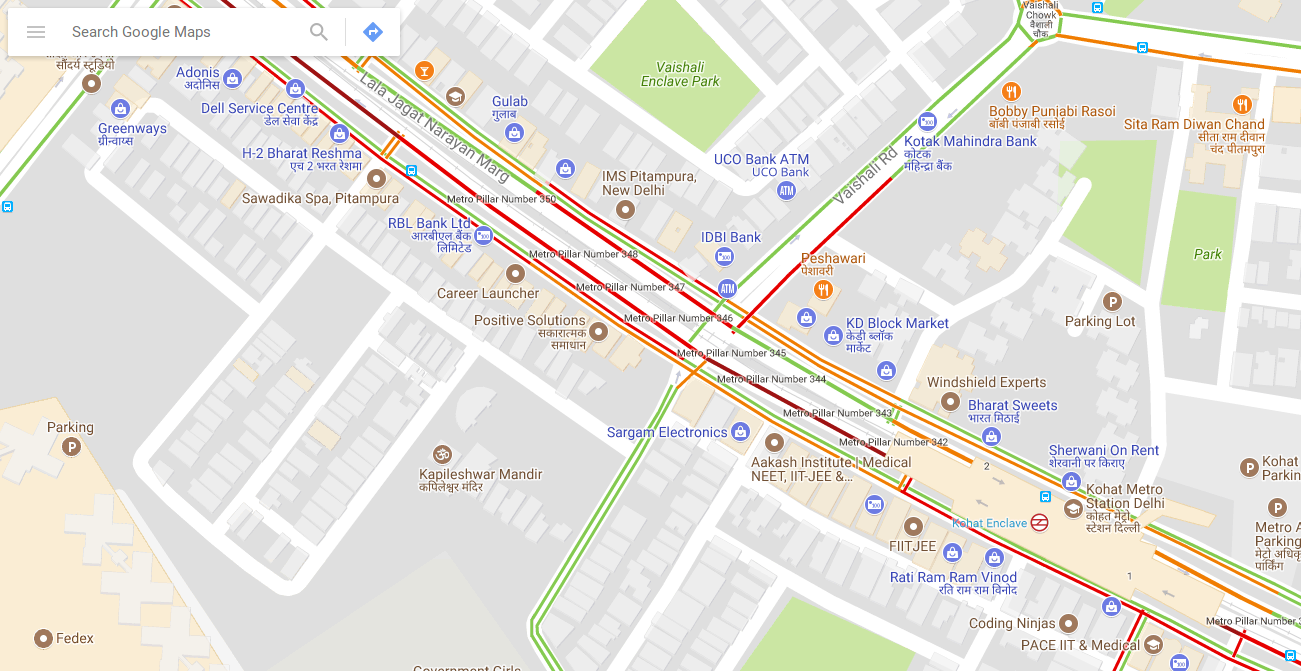
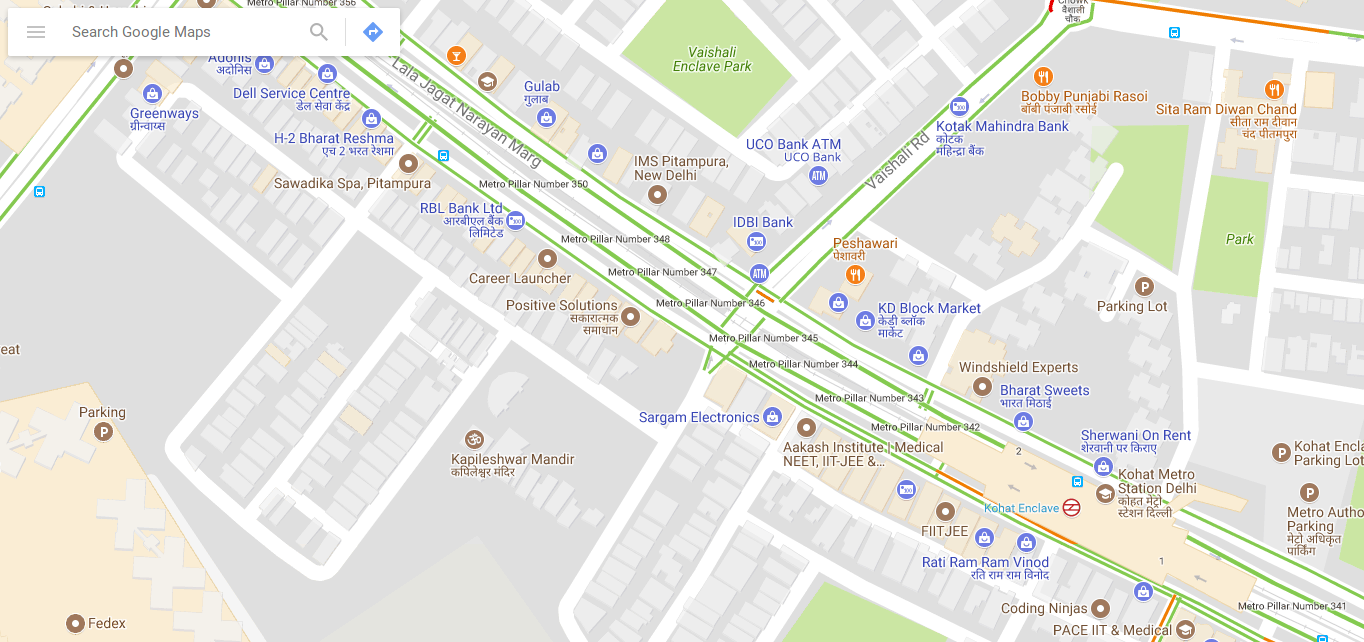
3 crossing are working

diff --git a/main.py b/main.py
@@ -21,7 +21,7 @@ import Image
 
 #creating crossings
 c1 = crossing('c1', 'https://www.google.co.in/maps/@28.7037435,77.1313585,19z/data=!5m1!1e1')
-c2 = crossing('c2', 'https://www.google.co.in/maps/@28.700744,77.1359014,18.5z/data=!5m1!1e1')
+c2 = crossing('c2', 'https://www.google.co.in/maps/@28.7006228,77.1358411,21z/data=!5m1!1e1')
 c3 = crossing('c3', 'https://www.google.co.in/maps/@28.6988657,77.1383807,18.5z/data=!5m1!1e1')
 c4 = crossing('c4', 'https://www.google.co.in/maps/@28.6953937,77.1465191,19.5z/data=!5m1!1e1')
 c5 = crossing('c5', 'https://www.google.co.in/maps/@28.6942465,77.1500341,18.5z/data=!5m1!1e1')
@@ -29,7 +29,11 @@ c5 = crossing('c5', 'https://www.google.co.in/maps/@28.6942465,77.1500341,18.5z/
 
 
 board = Draw(c1,c2,c3,c4,c5)
-
+c1.createRoad(145,143, 205, 208,205, 143, 145, 208, board.C)
+c2.createRoad(295, 143,355, 208, 295, 208,0,0,board.C)
+c3.createRoad(445, 143,505, 208,505, 143,445, 208,board.C)
+c4.createRoad(595, 143,655, 208, 595, 208, 0,0, board.C)
+c5.createRoad(745, 143,0,0,805, 143,805, 208,board.C)
 
 #1st crossing
 c1.rLeft.createLight(150,160,155,165,150,170,155,175,board.C)
@@ -93,6 +97,9 @@ def controlLight(crossing, xL, yL, xT, yT, xR, yR, xB, yB):
         print('itr')
         board.turnOn(crossing.rLeft.tLight.st)
         board.turnOn(crossing.rLeft.tLight.rt)
+        #starting the timer
+        thread.start_new_thread(crossing.rLeft.startTimer,(board.C, crossing.rLeft.tLight.getStTime()))
+
 
         #controlling the horizontal lights
         #checking for max congestion
@@ -106,9 +113,13 @@ def controlLight(crossing, xL, yL, xT, yT, xR, yR, xB, yB):
             #turning on rRight st
             board.turnOn(crossing.rRight.tLight.st)
 
+            #starting right timer
+            thread.start_new_thread(crossing.rRight.startTimer,(board.C, crossing.rRight.tLight.getStTime()))
+
             #finding time to turn off rLeft st
             timest = crossing.rLeft.tLight.getStTime() - timeRt
             time.sleep(timest)
+
             #turning off rLeft st
             board.turnOff(crossing.rLeft.tLight.st)
             #turning on rRight rt
@@ -118,6 +129,7 @@ def controlLight(crossing, xL, yL, xT, yT, xR, yR, xB, yB):
             time.sleep(timest)
             board.turnOff(crossing.rRight.tLight.st)
             board.turnOff(crossing.rRight.tLight.rt)
+
         else:
             # finding time for rLeft rt
             timeRt = crossing.rLeft.tLight.getRtTime()
@@ -126,7 +138,8 @@ def controlLight(crossing, xL, yL, xT, yT, xR, yR, xB, yB):
             board.turnOff(crossing.rLeft.tLight.rt)
             # turning on rRight st
             board.turnOn(crossing.rRight.tLight.st)
-
+            #starting timer
+            thread.start_new_thread(crossing.rRight.startTimer,(board.C, crossing.rRight.tLight.getStTime()))
             # finding time to turn off rLeft st
             timest = crossing.rLeft.tLight.getStTime() - timeRt
             time.sleep(timest)
@@ -145,20 +158,22 @@ def controlLight(crossing, xL, yL, xT, yT, xR, yR, xB, yB):
 
             board.turnOn(crossing.rTop.tLight.st)
             board.turnOn(crossing.rTop.tLight.rt)
+            #setting timer
+            thread.start_new_thread(crossing.rTop.startTimer,(board.C, crossing.rTop.tLight.getStTime()))
             # checking for max congestion
             if(crossing.rTop.tLight.getStTime() == 0):
                 board.turnOn(crossing.rBottom.tLight.rt)
             if crossing.rTop.tLight.getStTime() > crossing.rBottom.tLight.getStTime():
                 print ('if')
                 # finding time for rLeft rt
-                timeRt = crossing.rTop.tLight.getStTime() - (
-                crossing.rBottom.tLight.getStTime() - crossing.rBottom.tLight.getRtTime())
+                timeRt = crossing.rTop.tLight.getStTime() - (crossing.rBottom.tLight.getStTime() - crossing.rBottom.tLight.getRtTime())
                 time.sleep(timeRt)
                 # turning off rt
                 board.turnOff(crossing.rTop.tLight.rt)
                 # turning on rRight st
                 board.turnOn(crossing.rBottom.tLight.st)
-
+                #starting timer
+                thread.start_new_thread(crossing.rBottom.startTimer,(board.C,crossing.rBottom.tLight.getStTime()))
                 #getting update
                 crossing.mapc.getUpdate()
                 crossing.img = crossing.mapc.fetch()
@@ -182,6 +197,8 @@ def controlLight(crossing, xL, yL, xT, yT, xR, yR, xB, yB):
                 board.turnOff(crossing.rTop.tLight.rt)
                 # turning on rRight st
                 board.turnOn(crossing.rBottom.tLight.st)
+                #starting timer
+                thread.start_new_thread(crossing.rBottom.startTimer, (board.C, crossing.rBottom.tLight.getStTime()))
 
                 # getting update
                 crossing.mapc.getUpdate()
@@ -203,13 +220,11 @@ def controlLight(crossing, xL, yL, xT, yT, xR, yR, xB, yB):
 
 #controlling the lights
 #use your own coordinates comment mine
-thread.start_new_thread(controlLight, (c1, 78, 495, 138, 749, 361, 748, 256, 483))
-thread.start_new_thread(controlLight, (c2, 299, 662, 0, 0, 365, 693, 372, 621))
-thread.start_new_thread(controlLight, (c3, 282, 720, 288, 793, 353, 758, 380, 705))
-thread.start_new_thread(controlLight, (c4, 282, 707, 0, 0, 390, 797, 439, 702))
+thread.start_new_thread(controlLight, (c1, 78, 496, 128, 687, 361, 748, 256, 483))
+thread.start_new_thread(controlLight, (c2, 13, 670, 0, 0, 362, 772, 412, 406))
+thread.start_new_thread(controlLight, (c3, 282, 720, 285, 796, 353, 758, 380, 705))
+thread.start_new_thread(controlLight, (c4, 282, 707, 0, 0, 390, 797, 411, 710))
 thread.start_new_thread(controlLight, (c5, 259, 568, 260, 706, 376, 811, 0, 0))
-# thread.start_new_thread(controlLight, (c1, ))
-# thread.start_new_thread(controlLight, (c1, ))
 board.top.mainloop()
 
 

diff --git a/CrossingGUI.py b/CrossingGUI.py
@@ -78,27 +78,27 @@ class Draw:
         # txt = self.C.create_text(270, 140, text="Pitampura metro")
         # txt = self.C.create_text(550, 140, text="Pitampura")cd
 
-        txt = self.C.create_text(145, 143, text="0")
-        txt = self.C.create_text(205, 143, text="1")
-        txt = self.C.create_text(205, 208, text="2")
-        txt = self.C.create_text(145, 208, text="3")
-
-        txt = self.C.create_text(295, 143, text="0")
-        txt = self.C.create_text(355, 208, text="1")
-        txt = self.C.create_text(295, 208, text="2")
-
-        txt = self.C.create_text(445, 143, text="0")
-        txt = self.C.create_text(505, 143, text="1")
-        txt = self.C.create_text(505, 208, text="2")
-        txt = self.C.create_text(445, 208, text="3")
-
-        txt = self.C.create_text(595, 143, text="0")
-        txt = self.C.create_text(655, 208, text="1")
-        txt = self.C.create_text(595, 208, text="2")
-
-        txt = self.C.create_text(745, 143, text="0")
-        txt = self.C.create_text(805, 143, text="1")
-        txt = self.C.create_text(805, 208, text="2")
+        # txt = self.C.create_text(145, 143, text="0")
+        # txt = self.C.create_text(205, 143, text="1")
+        # txt = self.C.create_text(205, 208, text="2")
+        # txt = self.C.create_text(145, 208, text="3")
+        #
+        # txt = self.C.create_text(295, 143, text="0")
+        # txt = self.C.create_text(355, 208, text="1")
+        # txt = self.C.create_text(295, 208, text="2")
+        #
+        # txt = self.C.create_text(445, 143, text="0")
+        # txt = self.C.create_text(505, 143, text="1")
+        # txt = self.C.create_text(505, 208, text="2")
+        # txt = self.C.create_text(445, 208, text="3")
+        #
+        # txt = self.C.create_text(595, 143, text="0")
+        # txt = self.C.create_text(655, 208, text="1")
+        # txt = self.C.create_text(595, 208, text="2")
+        #
+        # txt = self.C.create_text(745, 143, text="0")
+        # txt = self.C.create_text(805, 143, text="1")
+        # txt = self.C.create_text(805, 208, text="2")
 
         # txt = self.C.create_text(18, 175, text="Rohini")
 

diff --git a/Road.py b/Road.py
@@ -1,7 +1,7 @@
 #class road
 import numpy as np
 from TrafficLight import *
-
+import time
 def color(a):
     if np.array_equal(a, [80, 202, 132]):
         return "green"
@@ -12,14 +12,29 @@ def color(a):
     elif np.array_equal(a, [19, 19, 158]):
         return "maroon"
     else:
-        print('white')
         return "white"
 
 class Road:
+    def __init__(self,a,b,C):
+        self.createLable(a,b,C)
     def createLight(self,a,b,c,d,e,f,g,h,C):
         self.tLight = TrafficLight(a,b,c,d,e,f,g,h,C)
     def getColor(self):
         return self.color
     def setColor(self, color):
         self.color = color
+    def createLable(self,a,b,C):
+        self.a = a
+        self.inner = "0"
+        if self.a==0:
+            self.inner = ""
+        self.txt = C.create_text(a, b, text=self.inner)
+
+    def startTimer(self,C,time1):
+        if(self.a == 0):
+            time1 = -1
+        while time1 != -1:
+            C.itemconfig(self.txt, text = time1)
+            time.sleep(1)
+            time1 = time1 - 1
 

diff --git a/crossing.py b/crossing.py
@@ -6,11 +6,11 @@ class crossing:
         self.mapc.getUpdate()
         self.img = self.mapc.fetch()
         self.name = name
-        self.createRoad()
+        #self.createRoad(xl,yl,xt,yt,xr,yr,xb,yb,C)
         self.delay = 0
 
-    def createRoad(self):
-        self.rLeft = Road()
-        self.rRight = Road()
-        self.rTop = Road()
-        self.rBottom = Road()
+    def createRoad(self,xl,yl,xt,yt,xr,yr,xb,yb,C):
+        self.rLeft = Road(xl,yl,C)
+        self.rRight = Road(xt,yt,C)
+        self.rTop = Road(xr,yr,C)
+        self.rBottom = Road(xb,yb,C)
